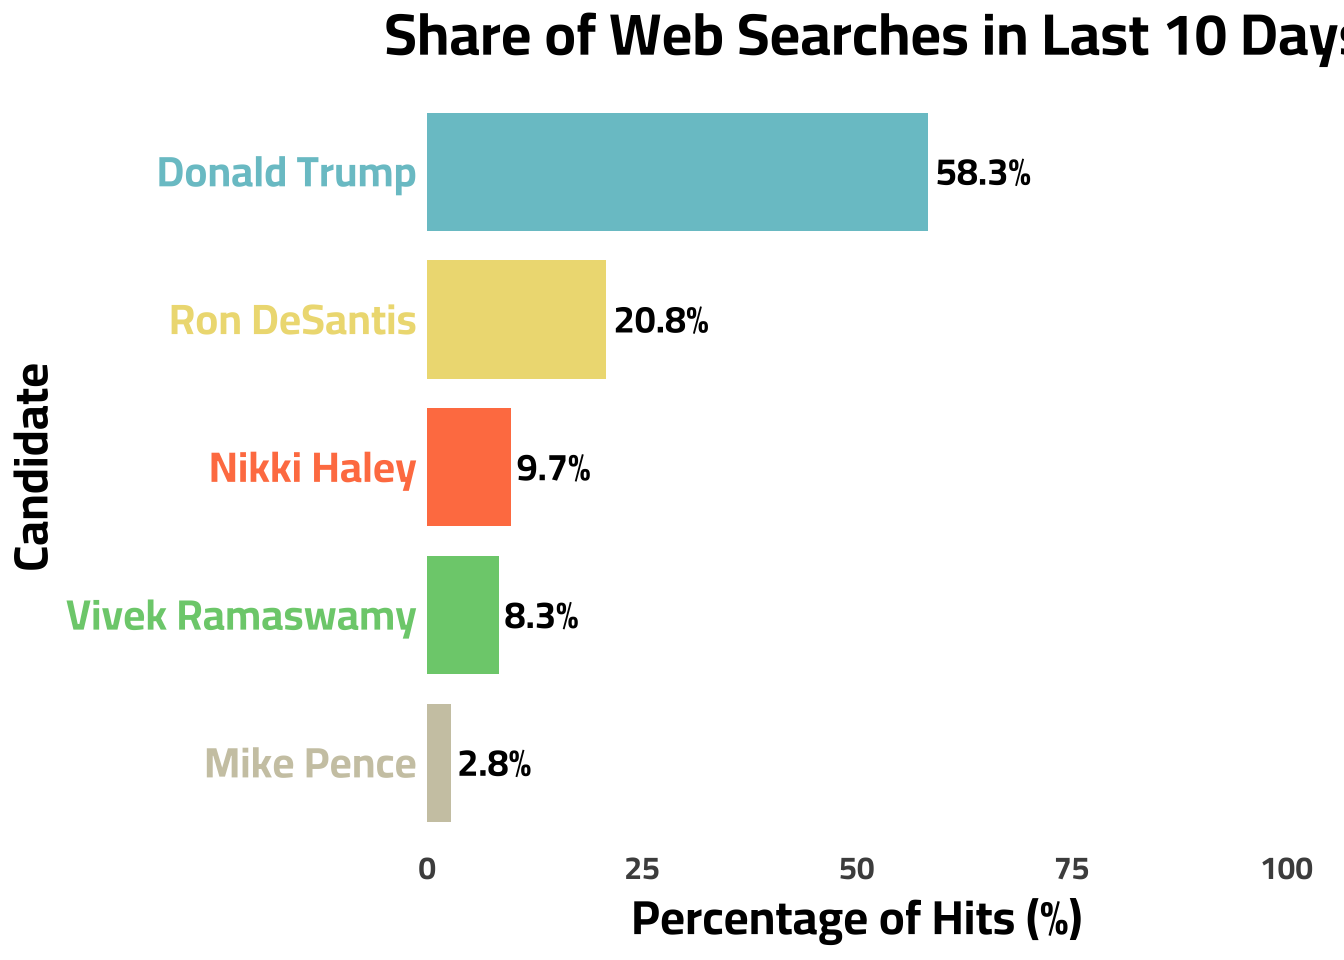
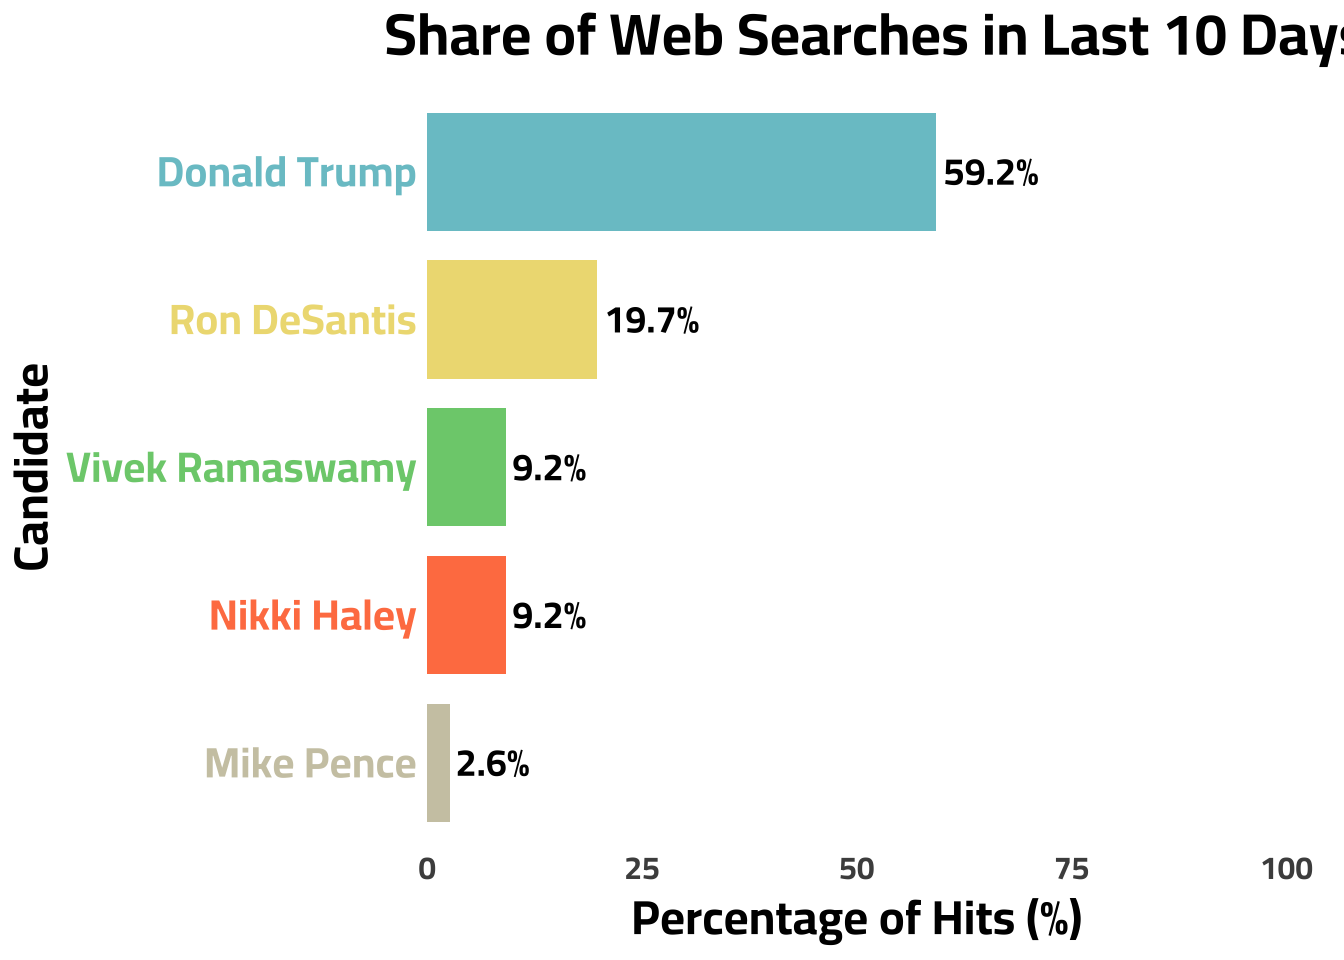
StreamGraph Update

diff --git a/_site/blog.html b/_site/blog.html
@@ -178,7 +178,7 @@ ul.task-list li input[type="checkbox"] {
 
 <div class="quarto-listing quarto-listing-container-default" id="listing-listing">
 <div class="list quarto-listing-default">
-<div class="quarto-post image-right" data-index="0" data-categories="Google Trends,Data Journalism,Politics,CICD" data-listing-date-sort="1696399200000" data-listing-file-modified-sort="1696406618792" data-listing-date-modified-sort="NaN" data-listing-reading-time-sort="7">
+<div class="quarto-post image-right" data-index="0" data-categories="Google Trends,Data Journalism,Politics,CICD" data-listing-date-sort="1696377600000" data-listing-file-modified-sort="1697113456003" data-listing-date-modified-sort="NaN" data-listing-reading-time-sort="7">
 <div class="thumbnail">
 <p><a href="./posts/primary_stream/index.html"> <img src="././about_files/primary_1.png" class="thumbnail-image"> </a></p>
 </div>
@@ -215,7 +215,7 @@ Oct 4, 2023
 </a>
 </div>
 </div>
-<div class="quarto-post image-right" data-index="1" data-categories="CICD,Quarto" data-listing-date-sort="1694066400000" data-listing-file-modified-sort="1696404983537" data-listing-date-modified-sort="NaN" data-listing-reading-time-sort="8">
+<div class="quarto-post image-right" data-index="1" data-categories="CICD,Quarto" data-listing-date-sort="1694044800000" data-listing-file-modified-sort="1697113456000" data-listing-date-modified-sort="NaN" data-listing-reading-time-sort="8">
 <div class="thumbnail">
 <p><a href="./posts/cicd_primary/index.html"> <img src="https://external-content.duckduckgo.com/iu/?u=https%3A%2F%2Fwww.adictosaltrabajo.com%2Fwp-content%2Fuploads%2F2020%2F10%2Fandroid-github-actions-setup-image-35b6a79fea4a7289acb6796cd4ad05b4.png&amp;f=1&amp;nofb=1&amp;ipt=b02a4ecfb6e2d666f35916b643a6f3e9907e880252d1e19d3eda47521252e9c3&amp;ipo=images" class="thumbnail-image"> </a></p>
 </div>
@@ -246,7 +246,7 @@ Sep 7, 2023
 </a>
 </div>
 </div>
-<div class="quarto-post image-right" data-index="2" data-categories="Life Hacks,Quarto" data-listing-date-sort="1688623200000" data-listing-file-modified-sort="1688884981931" data-listing-date-modified-sort="NaN" data-listing-reading-time-sort="3">
+<div class="quarto-post image-right" data-index="2" data-categories="Life Hacks,Quarto" data-listing-date-sort="1688601600000" data-listing-file-modified-sort="1697113456005" data-listing-date-modified-sort="NaN" data-listing-reading-time-sort="3">
 <div class="thumbnail">
 <p><a href="./posts/simple_analytics/index.html"> <img src="./about_files/Simple_Analytics.png" class="thumbnail-image"> </a></p>
 </div>
@@ -277,7 +277,7 @@ Jul 6, 2023
 </a>
 </div>
 </div>
-<div class="quarto-post image-right" data-index="3" data-categories="Data Journalism,Google Trends,Politics" data-listing-date-sort="1687845600000" data-listing-file-modified-sort="1688183490202" data-listing-date-modified-sort="NaN" data-listing-reading-time-sort="7">
+<div class="quarto-post image-right" data-index="3" data-categories="Data Journalism,Google Trends,Politics" data-listing-date-sort="1687824000000" data-listing-file-modified-sort="1697113456001" data-listing-date-modified-sort="NaN" data-listing-reading-time-sort="7">
 <div class="thumbnail">
 <p><a href="./posts/google_trends/index.html"> <img src="./about_files/byteman.png" class="thumbnail-image"> </a></p>
 </div>
@@ -311,7 +311,7 @@ Jun 27, 2023
 </a>
 </div>
 </div>
-<div class="quarto-post image-right" data-index="4" data-categories="Data Journalism,LDS,R" data-listing-date-sort="1675753200000" data-listing-file-modified-sort="1687907661581" data-listing-date-modified-sort="NaN" data-listing-reading-time-sort="4">
+<div class="quarto-post image-right" data-index="4" data-categories="Data Journalism,LDS,R" data-listing-date-sort="1675728000000" data-listing-file-modified-sort="1697113456002" data-listing-date-modified-sort="NaN" data-listing-reading-time-sort="4">
 <div class="thumbnail">
 <p><a href="./posts/income_myth/index.html"> <img src="./about_files/LDS_myth_0.png" class="thumbnail-image"> </a></p>
 </div>
@@ -345,7 +345,7 @@ Feb 7, 2023
 </a>
 </div>
 </div>
-<div class="quarto-post image-right" data-index="5" data-categories="Life Hacks,Quarto" data-listing-date-sort="1662098400000" data-listing-file-modified-sort="1662350254717" data-listing-date-modified-sort="NaN" data-listing-reading-time-sort="3">
+<div class="quarto-post image-right" data-index="5" data-categories="Life Hacks,Quarto" data-listing-date-sort="1662076800000" data-listing-file-modified-sort="1697113456004" data-listing-date-modified-sort="NaN" data-listing-reading-time-sort="3">
 <div class="thumbnail">
 <p><a href="./posts/resume/index.html"> <img src="./about_files/resume_2.png" class="thumbnail-image"> </a></p>
 </div>
@@ -376,7 +376,7 @@ Sep 2, 2022
 </a>
 </div>
 </div>
-<div class="quarto-post image-right" data-index="6" data-categories="Survey Research,Data Journalism,LDS" data-listing-date-sort="1646290800000" data-listing-file-modified-sort="1697077318240" data-listing-date-modified-sort="NaN" data-listing-reading-time-sort="7">
+<div class="quarto-post image-right" data-index="6" data-categories="Survey Research,Data Journalism,LDS" data-listing-date-sort="1646265600000" data-listing-file-modified-sort="1697113455999" data-listing-date-modified-sort="NaN" data-listing-reading-time-sort="7">
 <div class="thumbnail">
 <p><a href="./posts/7_facts/index.html"> <img src="https://www.ldstemple.pics/wp-content/uploads/washington-dc-temple-final-sunset-600x600.jpg" class="thumbnail-image"> </a></p>
 </div>
@@ -410,7 +410,7 @@ Mar 3, 2022
 </a>
 </div>
 </div>
-<div class="quarto-post image-right" data-index="7" data-categories="Data Journalism,R" data-listing-date-sort="1618034400000" data-listing-file-modified-sort="1662346251459" data-listing-date-modified-sort="NaN" data-listing-reading-time-sort="4">
+<div class="quarto-post image-right" data-index="7" data-categories="Data Journalism,R" data-listing-date-sort="1618012800000" data-listing-file-modified-sort="1697113456001" data-listing-date-modified-sort="NaN" data-listing-reading-time-sort="4">
 <div class="thumbnail">
 <p><a href="./posts/facebook_data/index.html"> <img src="./about_files/fb_icon" class="thumbnail-image"> </a></p>
 </div>
@@ -441,7 +441,7 @@ Apr 10, 2021
 </a>
 </div>
 </div>
-<div class="quarto-post image-right" data-index="8" data-categories="Data Journalism,R,Survey Research,LDS,Politics" data-listing-date-sort="1607497200000" data-listing-file-modified-sort="1688183467743" data-listing-date-modified-sort="NaN" data-listing-reading-time-sort="8">
+<div class="quarto-post image-right" data-index="8" data-categories="Data Journalism,R,Survey Research,LDS,Politics" data-listing-date-sort="1607472000000" data-listing-file-modified-sort="1697113456002" data-listing-date-modified-sort="NaN" data-listing-reading-time-sort="8">
 <div class="thumbnail">
 <p><a href="./posts/lds_gop/index.html"> <img src="./about_files/iu-3.jpeg" class="thumbnail-image"> </a></p>
 </div>
@@ -481,7 +481,7 @@ Dec 9, 2020
 </a>
 </div>
 </div>
-<div class="quarto-post image-right" data-index="9" data-categories="Data Journalism,R" data-listing-date-sort="1594360800000" data-listing-file-modified-sort="1662349784409" data-listing-date-modified-sort="NaN" data-listing-reading-time-sort="7">
+<div class="quarto-post image-right" data-index="9" data-categories="Data Journalism,R" data-listing-date-sort="1594339200000" data-listing-file-modified-sort="1697113456000" data-listing-date-modified-sort="NaN" data-listing-reading-time-sort="7">
 <div class="thumbnail">
 <p><a href="./posts/cars/index.html"> <img src="https://media.giphy.com/media/rUE9CTmsYMbbOz2MqD/giphy.gif" class="thumbnail-image"> </a></p>
 </div>
@@ -512,7 +512,7 @@ Jul 10, 2020
 </a>
 </div>
 </div>
-<div class="quarto-post image-right" data-index="10" data-categories="Data Journalism,R,Shiny" data-listing-date-sort="1591682400000" data-listing-file-modified-sort="1662349889692" data-listing-date-modified-sort="NaN" data-listing-reading-time-sort="7">
+<div class="quarto-post image-right" data-index="10" data-categories="Data Journalism,R,Shiny" data-listing-date-sort="1591660800000" data-listing-file-modified-sort="1697113456003" data-listing-date-modified-sort="NaN" data-listing-reading-time-sort="7">
 <div class="thumbnail">
 <p><a href="./posts/mobility/index.html"> <img src="./about_files/iu-2.jpeg" class="thumbnail-image"> </a></p>
 </div>

diff --git a/_site/projects.html b/_site/projects.html
@@ -178,7 +178,7 @@ ul.task-list li input[type="checkbox"] {
 
 <div class="quarto-listing quarto-listing-container-grid" id="listing-listing">
 <div class="list grid quarto-listing-cols-3">
-<div class="g-col-1" data-index="0" data-categories="Capstone,Python,Stats" data-listing-date-sort="1682920800000" data-listing-file-modified-sort="1696400410722" data-listing-date-modified-sort="NaN" data-listing-reading-time-sort="4">
+<div class="g-col-1" data-index="0" data-categories="Capstone,Python,Stats" data-listing-date-sort="1682899200000" data-listing-file-modified-sort="1697113456020" data-listing-date-modified-sort="NaN" data-listing-reading-time-sort="4">
 <a href="./projects/internet_archive/index.html" class="quarto-grid-link">
 <div class="quarto-grid-item card h-100 card-left">
 <p class="card-img-top">
@@ -211,7 +211,7 @@ May 1, 2023
 </div>
 </a>
 </div>
-<div class="g-col-1" data-index="1" data-categories="Python,Stats,Dataviz" data-listing-date-sort="1660888800000" data-listing-file-modified-sort="1688953567658" data-listing-date-modified-sort="NaN" data-listing-reading-time-sort="10">
+<div class="g-col-1" data-index="1" data-categories="Python,Stats,Dataviz" data-listing-date-sort="1660867200000" data-listing-file-modified-sort="1697113456015" data-listing-date-modified-sort="NaN" data-listing-reading-time-sort="10">
 <a href="./projects/bayesian_county/index.html" class="quarto-grid-link">
 <div class="quarto-grid-item card h-100 card-left">
 <p class="card-img-top">
@@ -244,7 +244,7 @@ Aug 19, 2022
 </div>
 </a>
 </div>
-<div class="g-col-1" data-index="2" data-categories="CI/CD,R,Dataviz" data-listing-date-sort="1636354800000" data-listing-file-modified-sort="1688953705886" data-listing-date-modified-sort="NaN" data-listing-reading-time-sort="3">
+<div class="g-col-1" data-index="2" data-categories="CI/CD,R,Dataviz" data-listing-date-sort="1636329600000" data-listing-file-modified-sort="1697113456016" data-listing-date-modified-sort="NaN" data-listing-reading-time-sort="3">
 <a href="./projects/covid_update/index.html" class="quarto-grid-link">
 <div class="quarto-grid-item card h-100 card-left">
 <p class="card-img-top">
@@ -277,7 +277,7 @@ Nov 8, 2021
 </div>
 </a>
 </div>
-<div class="g-col-1" data-index="3" data-categories="Dataviz,Stats,R" data-listing-date-sort="1600408800000" data-listing-file-modified-sort="1688953990386" data-listing-date-modified-sort="NaN" data-listing-reading-time-sort="2">
+<div class="g-col-1" data-index="3" data-categories="Dataviz,Stats,R" data-listing-date-sort="1600387200000" data-listing-file-modified-sort="1697113456018" data-listing-date-modified-sort="NaN" data-listing-reading-time-sort="2">
 <a href="./projects/election_model/index.html" class="quarto-grid-link">
 <div class="quarto-grid-item card h-100 card-left">
 <p class="card-img-top">
@@ -310,7 +310,7 @@ Sep 18, 2020
 </div>
 </a>
 </div>
-<div class="g-col-1" data-index="4" data-categories="R,Shiny" data-listing-date-sort="1596175200000" data-listing-file-modified-sort="1688954007297" data-listing-date-modified-sort="NaN" data-listing-reading-time-sort="2">
+<div class="g-col-1" data-index="4" data-categories="R,Shiny" data-listing-date-sort="1596153600000" data-listing-file-modified-sort="1697113456021" data-listing-date-modified-sort="NaN" data-listing-reading-time-sort="2">
 <a href="./projects/peanuts/index.html" class="quarto-grid-link">
 <div class="quarto-grid-item card h-100 card-left">
 <p class="card-img-top">
@@ -340,7 +340,7 @@ Jul 31, 2020
 </div>
 </a>
 </div>
-<div class="g-col-1" data-index="5" data-categories="Capstone,R,Stats" data-listing-date-sort="1587794400000" data-listing-file-modified-sort="1689571784506" data-listing-date-modified-sort="NaN" data-listing-reading-time-sort="6">
+<div class="g-col-1" data-index="5" data-categories="Capstone,R,Stats" data-listing-date-sort="1587772800000" data-listing-file-modified-sort="1697113456023" data-listing-date-modified-sort="NaN" data-listing-reading-time-sort="6">
 <a href="./projects/star_wars_capstone/index.html" class="quarto-grid-link">
 <div class="quarto-grid-item card h-100 card-left">
 <p class="card-img-top">

diff --git a/_site/posts/primary_stream/index.html b/_site/posts/primary_stream/index.html
@@ -181,7 +181,7 @@ Note
 </div>
 </div>
 <div class="callout-body-container callout-body">
-<p>This graph is updated on a daily basis to provide continuous context to the GOP Primary Election. This graph was last updated: 20:26:12 on 11 Oct 2023</p>
+<p>This graph is updated on a daily basis to provide continuous context to the GOP Primary Election. This graph was last updated: 12:24:25 on 12 Oct 2023</p>
 </div>
 </div>
 <div class="cell">
@@ -234,7 +234,7 @@ Note
 </div>
 </div>
 <div class="callout-body-container callout-body">
-<p>This graph is updated on a daily basis to provide continuous context to the GOP Primary Election. This graph was last updated: 20:26:17 on 11 Oct 2023</p>
+<p>This graph is updated on a daily basis to provide continuous context to the GOP Primary Election. This graph was last updated: 12:24:31 on 12 Oct 2023</p>
 </div>
 </div>
 <p>This graph is provided to give a barometer reading of a candidates <em>recent</em> popularity/news coverage.</p>
